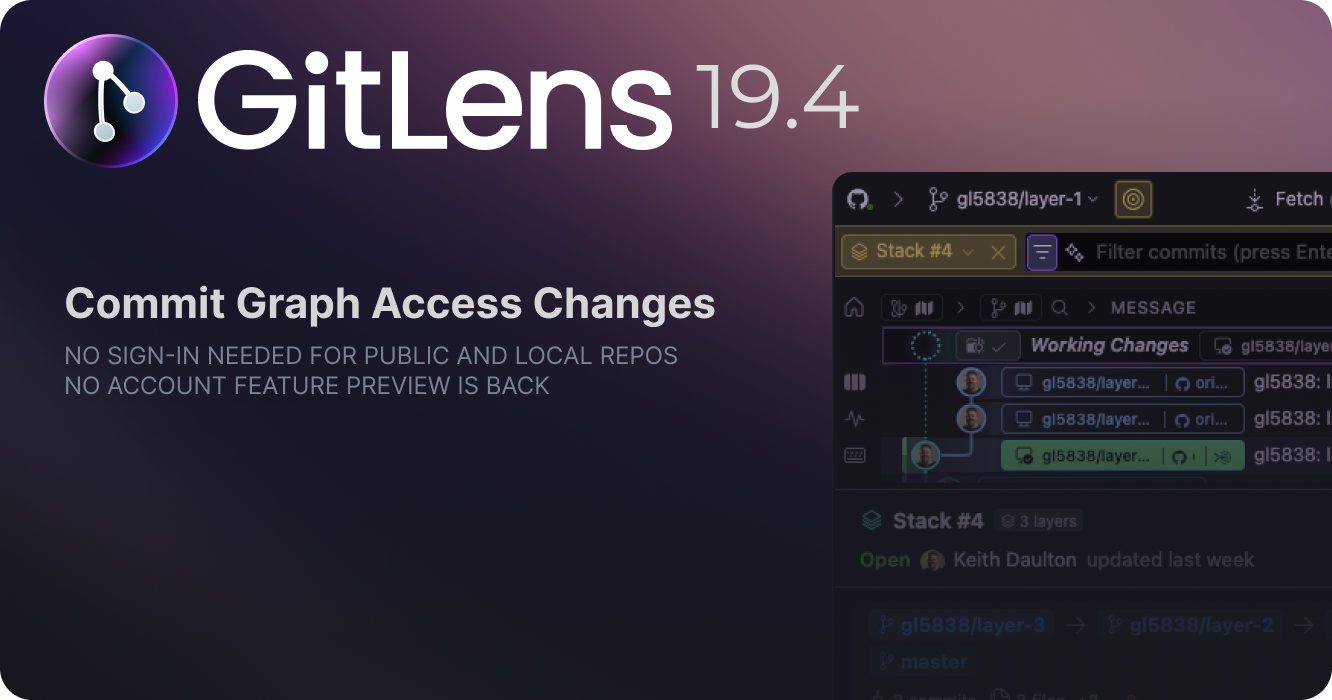
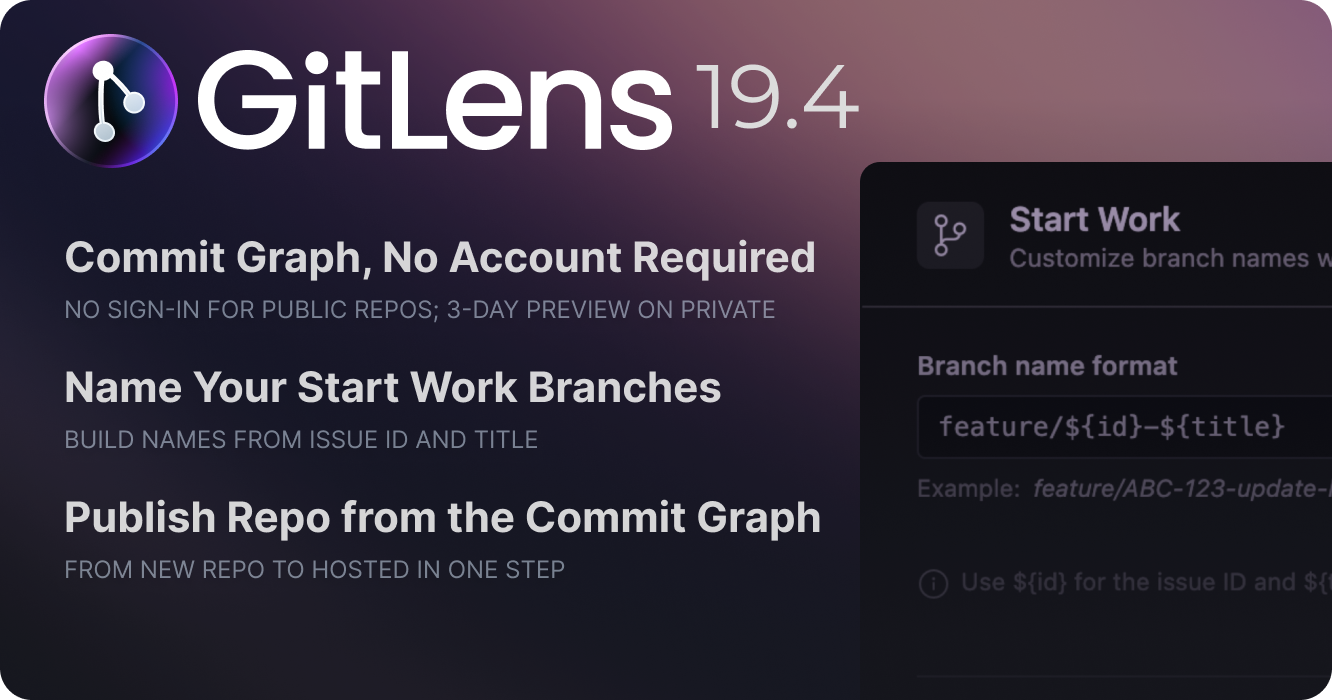
docs(gitlens): lead 19.4 notes with the Commit Graph account change
Opens the 19.4 release notes by owning the 19.0 decision to require an
account for the Commit Graph on public and local repositories, and its
reversal in 19.4. Reorders the feature sections to match the updated
hero (Commit Graph, Start Work branch names, Publish Repository) and
trims details from the Commit Graph section that the opening now covers.

diff --git a/gitlens/gitlens-release-notes-current.md b/gitlens/gitlens-release-notes-current.md
@@ -25,35 +25,23 @@ Features marked with `PREVIEW` require a GitKraken Account, with access level ba
 
 #### Thursday, October 15, 2026
 
-GitLens 19.4 opens up the _Commit Graph_. You no longer need an account to use it on public and local repositories: install GitLens, open the graph, and it's all there, with no sign-in prompts. On privately hosted repositories, a 3-day preview now starts the first time you open the graph, so you can try it on your own work before deciding whether to sign in.
+As of GitLens 19.4, the _Commit Graph_ no longer requires an account on public and local repositories. Install GitLens, open the graph, and it's all there, with no sign-in prompts.
 
-A brand new repository can now go from your machine to a host without leaving the graph. When a repository has no remotes, the _Commit Graph_ offers _Publish Repository_ instead of a _Publish Branch_ button that could only tell you "No remotes found." For hosts VS Code can't publish to, _Add Remote_ sits right beside it.
+In 19.0, we made the _Commit Graph_ the home of GitLens and built in new capabilities to help you stay in control of your development workflows. Along with that change, we started requiring a GitKraken account to use it, even on public and local repositories. That got in the way of the very thing we were trying to put front and center, so we've taken it out. Thank you to everyone who told us in issues, discussions, and reviews.
 
-_Start Work_ can now name branches the way your team does. A new branch name format, built from the issue's ID and title, has its own editor in _GitLens Settings_ with a live preview of the result.
+On privately hosted repositories, the _Commit Graph_ is still part of GitLens Pro, but you can try it first. The first time you open it on a private repository, a 3-day preview starts on its own, with no account needed.
 
-The rest of the release tightens safety and correctness. A pull you started can no longer be undercut by the graph's auto-fetch, and worktree deletes warn you when GitLens can't check for changes. Renamed files open at the right path, and _Start Work_ and _Launchpad_ now read from every self-managed host you've connected instead of just one.
+If you haven't explored the new _Commit Graph_, now's a good time to come back and explore how GitLens and the _Commit Graph_ can supercharge your Git workflow.
+
+Beyond the graph, _Start Work_ can now name branches the way your team does, with a format built from the issue's ID and title and a live preview in _GitLens Settings_. A brand new repository can also go from your machine to a host without leaving the graph: when there are no remotes, the graph offers _Publish Repository_, with _Add Remote_ beside it. The rest of the release tightens safety and correctness. A pull you started can no longer be undercut by the graph's auto-fetch, worktree deletes warn you when GitLens can't check for changes, and _Start Work_ and _Launchpad_ now read from every self-managed host you've connected instead of just one.
 
 <img src="/wp-content/uploads/gl-19-4-hero.png" class="help-center-img img-bordered">
 
 ### The Commit Graph, No Account Required
 
-The _Commit Graph_ no longer asks you to sign in on public and local repositories. If you're signed out, you get the full graph with no prompts and no walls.
-
-**A real preview on private repositories** &mdash; the first time you open the graph on a privately hosted repository while signed out, a 3-day preview starts on its own. A notice above the graph shows how much time is left, offers _Sign In_, and reminds you that public and local repositories stay free. The sign-in screen only appears after the preview ends. If your workspace also has public or local repositories, that screen offers to switch to one of them.
-
-The preview used to be three separate one-day sessions, each started by hand with _Continue Preview_. It's now one continuous 3-day window, so you can use the graph over a few working days without having to restart it.
+**Previewing on private repositories** &mdash; while the preview runs, a notice above the graph shows how much time is left, offers _Sign In_, and reminds you that public and local repositories stay free. The sign-in screen only appears once the preview ends, and if your workspace also has public or local repositories, it offers to switch to one of them. The preview used to be three separate one-day sessions, each started by hand with _Continue Preview_. It's now one continuous 3-day window, so you can use the graph over a few working days without having to restart it.
 
 **Signed-out states that make sense** &mdash; the account panel in _GitLens Settings_ now shows a sign-in card and a _Sign in to use GitKraken AI_ line instead of blank cards, and its footer offers _Sign in_ instead of a _Manage subscription_ link. _Start Work_ and _Start Review_ now ask you to sign in up front, instead of signing you in silently when you connect an integration.
-
-The potential-conflicts check on the merge-target status chip now requires a trial or Pro subscription, like every other conflict check in GitLens. Ahead and behind counts and merged status stay available to everyone.
-
-### Publish a Repository from the Commit Graph
-
-Run `git init`, commit some work, and the graph used to offer _Publish Branch_, which could only fail because there was nowhere to publish to. Now, when a repository has no remotes, the graph header, _Working Changes_ panel, overview, and branch details offer **_Publish Repository_**. It uses VS Code's publish flow to create the hosted repository and push your work in one step.
-
-The _Git Command Palette_'s _Push_ offers the same option when there are no remotes. If your host isn't one VS Code can publish to, **_Add Remote_** appears beside _Publish Repository_ in the push wizard and in the _Working Changes_ next steps. _Fetch_ is hidden until the repository has a remote to fetch from.
-
-<img src="/wp-content/uploads/gl-19-4-publish-repository.png" class="help-center-img img-bordered">
 
 ### Name Your Start Work Branches
 
@@ -62,6 +50,14 @@ _Start Work_ creates a branch for the issue you pick, and until now you got what
 You'll find it under _Integrations > Start Work_ in _GitLens Settings_, with an editor that shows a live preview of the branch name as you type. Characters Git doesn't allow in branch names are normalized for you, `/` keeps your branch hierarchy, and you can still edit the suggested name before the branch is created.
 
 <img src="/wp-content/uploads/gl-19-4-branch-name-format.png" class="help-center-img img-bordered">
+
+### Publish a Repository from the Commit Graph
+
+Run `git init`, commit some work, and the graph used to offer _Publish Branch_, which could only fail because there was nowhere to publish to. Now, when a repository has no remotes, the graph header, _Working Changes_ panel, overview, and branch details offer **_Publish Repository_**. It uses VS Code's publish flow to create the hosted repository and push your work in one step.
+
+The _Git Command Palette_'s _Push_ offers the same option when there are no remotes. If your host isn't one VS Code can publish to, **_Add Remote_** appears beside _Publish Repository_ in the push wizard and in the _Working Changes_ next steps. _Fetch_ is hidden until the repository has a remote to fetch from.
+
+<img src="/wp-content/uploads/gl-19-4-publish-repository.png" class="help-center-img img-bordered">
 
 ### Everyday Improvements
 
